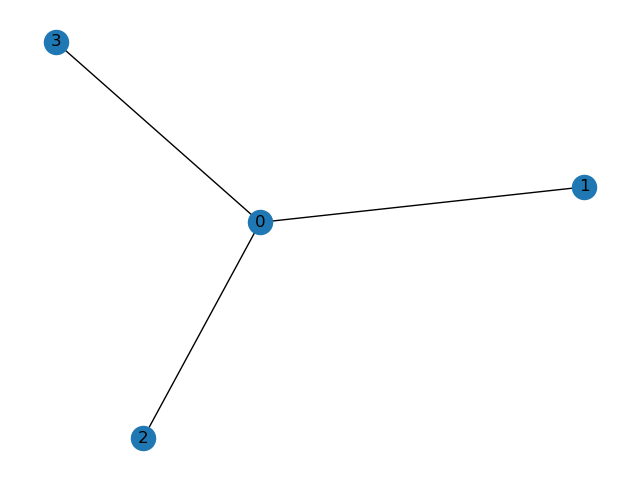
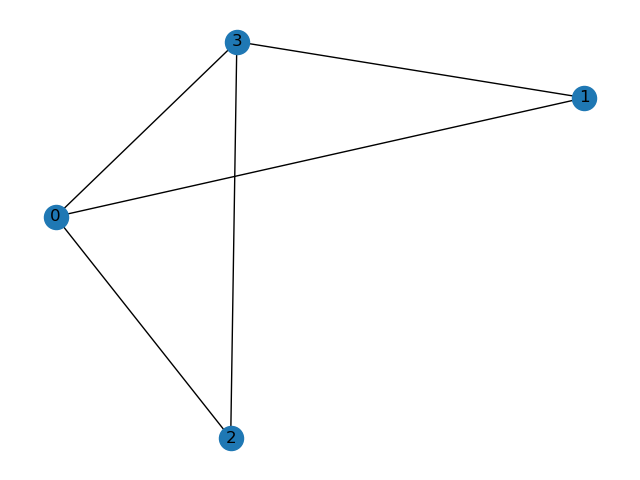
Restored part of test.

diff --git a/src/helper.py b/src/helper.py
@@ -308,26 +308,44 @@ def get_a_in_for_degree_receiver(
     else:
         verbose = False
     a_in = 0
+    # for circuit in G.nodes:
+    #    for neighbour_a in G.nodes:
+    #        if neighbour_a in nx.all_neighbors(G, circuit) or neighbour_a == circuit:
+    #            for neighbour_b in nx.all_neighbors(G, circuit):
+    #                if circuit != neighbour_b and neighbour_a != neighbour_b:
+    #
+    #                    # Check if there is an edge from neighbour_a to neighbour_b.
+    #                    if neighbour_a in nx.all_neighbors(G, neighbour_b):
+    #                        # Spike_once to degree_receiver
+    #                        # f"spike_once_{circuit}", to: f"degree_receiver_{neighbour_a}_{neighbour_b}",
+    #                        a_in = a_in + add_spike_weight_to_degree_receiver(
+    #                            neighbour_a,
+    #                            neighbour_b,
+    #                            spike_once_weight,
+    #                            t,
+    #                            x,
+    #                            y,
+    #                            verbose,
+    #                        )
+
+    for node in G.nodes:
+        for neighbour in nx.all_neighbors(G, node):
+            if node != neighbour:
+                for other_node in G.nodes:
+                    if (
+                        G.has_edge(neighbour, other_node)
+                        and x == node
+                        and y == neighbour
+                        and t == 2
+                    ):
+
+                        a_in = a_in + spike_once_weight
+                        # print(f'node={node},neighbour={neighbour},other_node={other_node},a_in={a_in}')
+                        print(
+                            f'"spike_once_{other_node} to: degree_receiver_{node}_{neighbour}, a_in={a_in}'
+                        )
+
     for circuit in G.nodes:
-        for neighbour_a in G.nodes:
-            if neighbour_a in nx.all_neighbors(G, circuit) or neighbour_a == circuit:
-                for neighbour_b in nx.all_neighbors(G, circuit):
-                    if circuit != neighbour_b and neighbour_a != neighbour_b:
-
-                        # Check if there is an edge from neighbour_a to neighbour_b.
-                        if neighbour_a in nx.all_neighbors(G, neighbour_b):
-                            # Spike_once to degree_receiver
-                            # f"spike_once_{circuit}", to: f"degree_receiver_{neighbour_a}_{neighbour_b}",
-                            a_in = a_in + add_spike_weight_to_degree_receiver(
-                                neighbour_a,
-                                neighbour_b,
-                                spike_once_weight,
-                                t,
-                                x,
-                                y,
-                                verbose,
-                            )
-
         # Add synapse between random node and degree receiver nodes.
         for circuit_target in G.nodes:
             if circuit != circuit_target:

diff --git a/test/test_algo_p1.py b/test/test_algo_p1.py
@@ -53,9 +53,9 @@ class Test_counter(unittest.TestCase):
 
         for retry in range(0, 2, 1):
             graphs = []
-            for size in range(4, 7, 1):
-                graphs.append(create_triangle_free_planar_graph(size, 0.6, 42, False))
-
+            # for size in range(4, 7, 1):
+            #    graphs.append(create_triangle_free_planar_graph(size, 0.6, 42, False))
+            graphs.append(create_manual_graph_with_4_nodes())
             # for G in get_graphs():
             for G in graphs:
                 # Initialise paramers used for testing.
